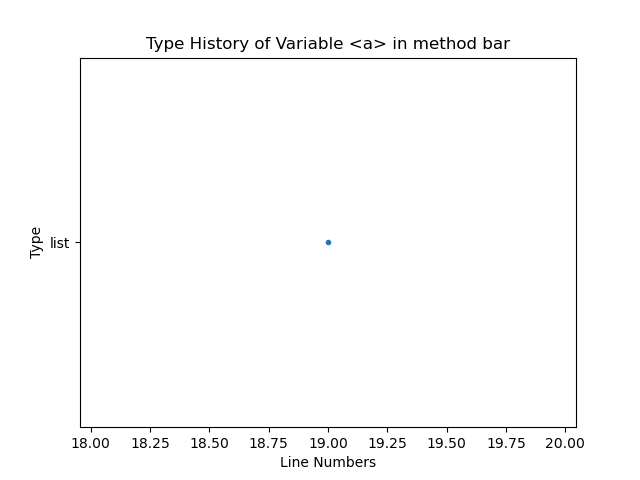
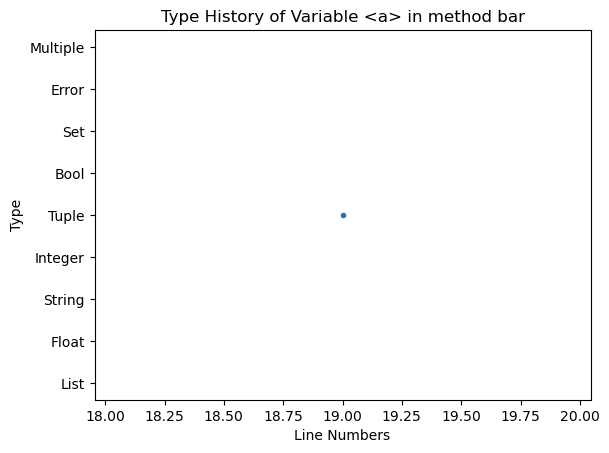
updated

Changed region(s): [[0.0, 0.0309, 0.9984, 0.989], [0.5616, 0.4636, 0.5928, 0.4945], [0.4992, 0.4945, 0.5304, 0.5254]]

diff --git a/ast_parser/parser.py b/ast_parser/parser.py
@@ -155,7 +155,6 @@ def highlightCodeLines(typeMapping, codeList, lifetimeVariableMap, doc, tag, tex
 
 # get all variables that exist in map and their indicies
 def extractVariablesFromLine(codeLine, typeMap, lineNumber, functionVariableMap, doc, tag, text):
-
     printed = False
     for key in typeMap:
         if (lineNumber in typeMap[key]):
@@ -213,21 +212,24 @@ def createGraphs(lifetimeVariableMap):
         methodVariables = lifetimeVariableMap[key]
         for variable in methodVariables:
             variableList = methodVariables[variable]
-            lineX = []
-            typeY = []
-            for tuple in variableList:
-                typeY.append(tuple[0])
-                lineX.append(getClassIdFromType(tuple[1]))
-            y = ['list', 'float', 'str', 'int', 'tuple', 'bool', 'set', 'error']
-
+            lineNums = []
+            typeVars = []
+            y = list(IdMap.values())
+            print(y)
+            for tpl in variableList:
+                typeVars.append(y.index(getClassIdFromType(tpl[1])))
+                lineNums.append(tpl[0])
+            print(typeVars)
             fig, ax = plt.subplots(1,1)
+            # ax.set_yticks(range(0, len(y)))
+            print(len(y))
             ax.set_yticklabels(y)
-            
             plt.title('Type History of Variable ' + '<' + variable + '>' + ' in method ' + key)
             plt.xlabel('Line Numbers')
             plt.ylabel('Type') 
-            plt.plot(typeY, lineX, '.')
-            plt.savefig(f'../output/typeHistory-method-{key}-{variable}.png')
+            
+            plt.plot(lineNums, typeVars, '.')
+            plt.savefig(f'../output/typeHistory-method-{key}-{variable}.png', bbox_inches='tight')
 def generateErrorReport(typeMapping, codeList):
     doc, tag, text = Doc().tagtext()
     with tag('html'):
